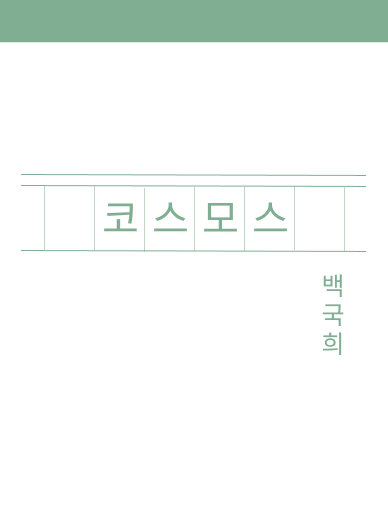
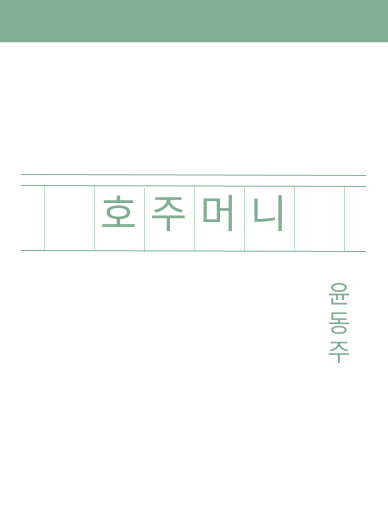
문학작품 1페이지짜리로

diff --git a/app/components/ExLiterature/literList.js b/app/components/ExLiterature/literList.js
@@ -1,19 +1,15 @@
 const literList={
     new: [
         { id: 1, title: "서시", text:"죽는 날까지 하늘을 우러러\n한 점 부끄럼이 없기를\n잎새에 이는 바람에도\n나는 괴로워했다\n별을 노래하는 마음으로\n모든 죽어가는 것을 사랑해야지\n그리고 나한테 주어진 길을 걸어가야겠다\n오늘 밤에도 별이 바람에 스치운다\n"},
-        // { id: 2, title: "청포도",text: "내 고장 칠월은\n청포도가 익어가는 시절\n이 마을 전설이 주저리주저리 열리고\n먼 데 하늘이 꿈꾸며 알알이 들어와 박혀\n하늘 밑 푸른 바다가 가슴을 열고\n흰 돛단배가 곱게 밀려서 오면\n내가 바라던 손님은 고달픈 몸으로\n청포를 입고 찾아온다고 했으니\n내 그를 맞아 이 포도를 따 먹으면\n두 손은 함뿍 적셔도 좋으련\n아이야 우리 식탁엔 은쟁반에\n하이얀 모시 수건을 마련해 두렴\n "},
+        { id: 2, title: "호수2", text:"오리 모가지는\n호수를 감는다\n오리 모가지는\n자꾸 간지러워\n"},
         { id: 3, title: "부모",text:"낙엽이 우수수 떨어질 때\n겨울의 기나긴 밤\n어머님하고 둘이 앉아\n옛이야기 들어라\n나는 어쩌면 생겨나와\n이 이야기 듣는가\n묻지도 말아라 내일 날에\n내가 부모 되어서 알아보랴\n "},
-        // { id: 4, title: "봄",text: "봄봄이 혈관 속에 시내처럼 흘러\n돌 돌 시내 가까운 언덕에\n개나리 진달래 노오란 배추꽃\n삼동을 참아온 나는\n풀포기처럼 피어난다\n즐거운 종달새야\n어느 이랑에서나 즐거웁게 솟쳐라\n푸르른 하늘은아른아른 높기도 한데\n아아 젊음은 오래 거기 남아 있거라\n"},
-        { id: 5, title: "겨울", text:"처마 밑에\n시래기 다래미 바삭바삭 추어요\n길바닥에\n말똥 동그램이\n달랑달랑\n얼어요\n"},
-        { id: 6, title: "고향집",text:"헌 짚신짝 끄을고\n나 여기 왜 왔노\n두만강을 건너서\n쓸쓸한 이 땅에\n남쪽 하늘 저 밑에\n따뜻한 내 고향\n내 어머니 계신 곳\n그리운 고향집\n"},
+        { id: 4, title: "새로운 길", text:"나의 길은 언제나 새로운 길\n오늘도 내일도\n내를 건너서 숲으로\n고개를 넘어서 마을로\n"},
     ],
     best: [
-        { id: 7, title: "먼후일",text:"먼 훗날 당신이 찾으시면\n그때에 내 말이 잊었노라\n당신이 속으로 나무라면\n무척 그리다가 잊었노라\n그래도 당신이 나무라면\n믿기지 않아서 잊었노라\n오늘도 어제도 아니 잊고\n먼 훗날 그때에 잊었노라\n"},
-        // { id: 8, title: "코스모스",text: "빛난다\n유리 같은 공기 속에서\n뽑은 듯 나릿한 몸매\n살랑거리는 모양이 눈에 보인다\n가벼운 속삭임이 흘러\n눈썹을 간즈린다\n밖엔\n고달픈 애수가 헤매고 있다\n벗은 나무들 피곤한 팔 드리우고\n가을바람은 마른 잎을 뿌린다\n웃음과 눈물\n좀더 가까이 서자\n빛난다\n유리 같은 공기 속에서\n밝게 차게\n"},
-        // { id: 9, title: "진달래꽃",text: "나 보기가 역겨워\n가실 때에는\n말없이 고이 보내 드리오리다\n영변에 약산\n진달래꽃\n아름 따다 가실 길에 뿌리오리다\n가시는 걸음걸음\n놓인 그 꽃을\n사뿐히 즈려 밟고 가시옵소서\n나 보기가 역겨워\n가실 때에는\n죽어도 아니 눈물 흘리오리다\n"},
-        { id: 10, title: "호수1", text:"얼굴 하나야\n손바닥 둘로\n폭 가리지만\n보고 싶은 마음\n호수만하니\n눈 감을 밖에\n"},
-        { id: 11, title: "호수2", text:"오리 모가지는\n호수를 감는다\n오리 모가지는\n자꾸 간지러워\n"},
-        // { id: 12, title: "향수", text: "넓은 벌 동쪽 끝으로\n옛이야기 지줄대는 실개천이 휘돌아나가고\n얼룩백이 황소가\n해설피 금빛 게으른 울음을 우는 곳\n그곳이 차마 꿈엔들 잊힐 리야\n질화로에 재가 석어지면\n비인 밭에 밤바람 소리 말을 달리고\n엷은 졸음에 겨운 늙으신 아버지가\n짚베개를 돋아 고이시는 곳\n그곳이 차마 꿈엔들 잊힐 리야\n흙에서 자란 내 마음\n파아란 하늘 빛이 그리워\n함부로 쏜 화살을 찾으러\n풀섶 이슬에 함추름 휘적시던 곳\n그곳이 차마 꿈엔들 잊힐 리야\n전설바다에 춤추는 밤물결 같은\n검은 귀밑머리 날리는 어린 누이와\n아무렇지도 않고 예쁠 것도 없는\n사철 발 벗은 아내가\n따가운 햇살을 등에 지고 이삭 줍던 곳\n그곳이 차마 꿈엔들 잊힐 리야\n하늘에는 성근 별\n알 수도 없는 모래성으로 발을 옮기고\n서리 까마귀 우지짖고 지나가는 초라한 지붕\n흐릿한 불빛에 돌아앉아 도란도란거리는 곳\n그곳이 차마 꿈엔들 잊힐 리야\n"},
+        { id: 5, title: "쉽게 씌여진 시",text:"인생은 살기 어렵다는데\n시가 이렇게 쉽게 씌어지는 것은\n부끄러운 일이다\n"},
+        { id: 6, title: "호주머니", text:"넣을 것 없어\n걱정이던 호주머니는\n겨울에\n주먹 두개 갑북갑북\n"},
+        { id: 7, title: "바람이 불어", text:"바람이 어디로부터 불어와\n어디로 불려가는 것일까\n바람이 부는데\n내 괴로움에는 이유가 없다\n"},
+        { id: 8, title: "엄마야 누냐아", text : "엄마야 누나야 강변살자\n뜰에는 반짝이는 금모래빛\n뒷문 밖에는 갈잎의 노래\n엄마야 누나야 강변살자\n"},
     ]
 }
 export default literList;

diff --git a/app/pages/MainPage.js b/app/pages/MainPage.js
@@ -13,22 +13,18 @@ import new1 from "../assets/MainPage/new1.png";
 import new2 from "../assets/MainPage/new2.png";
 import new3 from "../assets/MainPage/new3.png";
 import new4 from "../assets/MainPage/new4.png";
-import new5 from "../assets/MainPage/new5.png";
-import new6 from "../assets/MainPage/new6.png";
 
 import best1 from "../assets/MainPage/best1.png";
 import best2 from "../assets/MainPage/best2.png";
 import best3 from "../assets/MainPage/best3.png";
 import best4 from "../assets/MainPage/best4.png";
-import best5 from "../assets/MainPage/best5.png";
-import best6 from "../assets/MainPage/best6.png";
 
 import literList from "../components/ExLiterature/literList";
 
 import * as Font from "expo-font";
 
 const MainPage = ({navigation}) => {
-  const img = [new1, new2, new3, new4, new5, new6, best1, best2, best3, best4, best5, best6];
+  const img = [new1, new2, new3, new4, best1, best2, best3, best4];
 
   const [isReady, setIsReady] = useState(false);
   useEffect(async () => {
